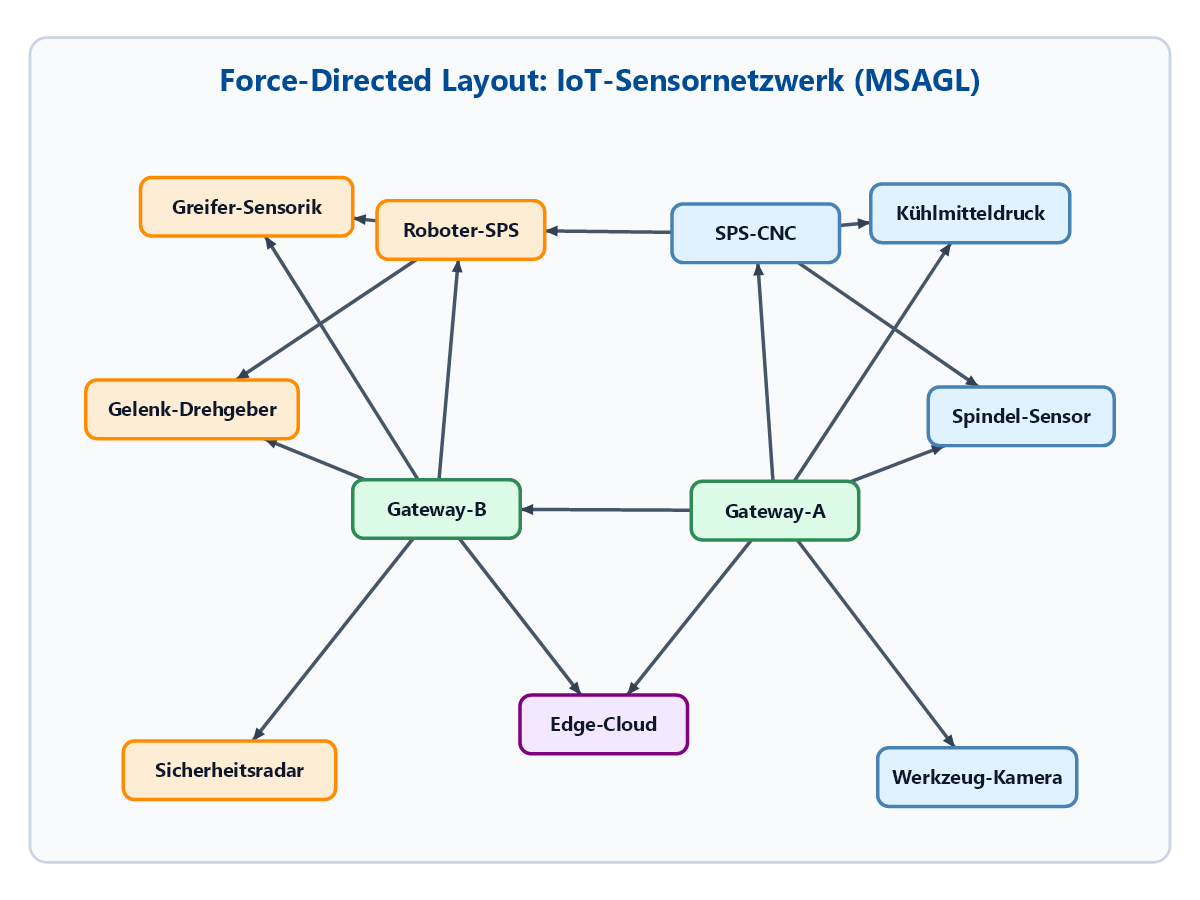
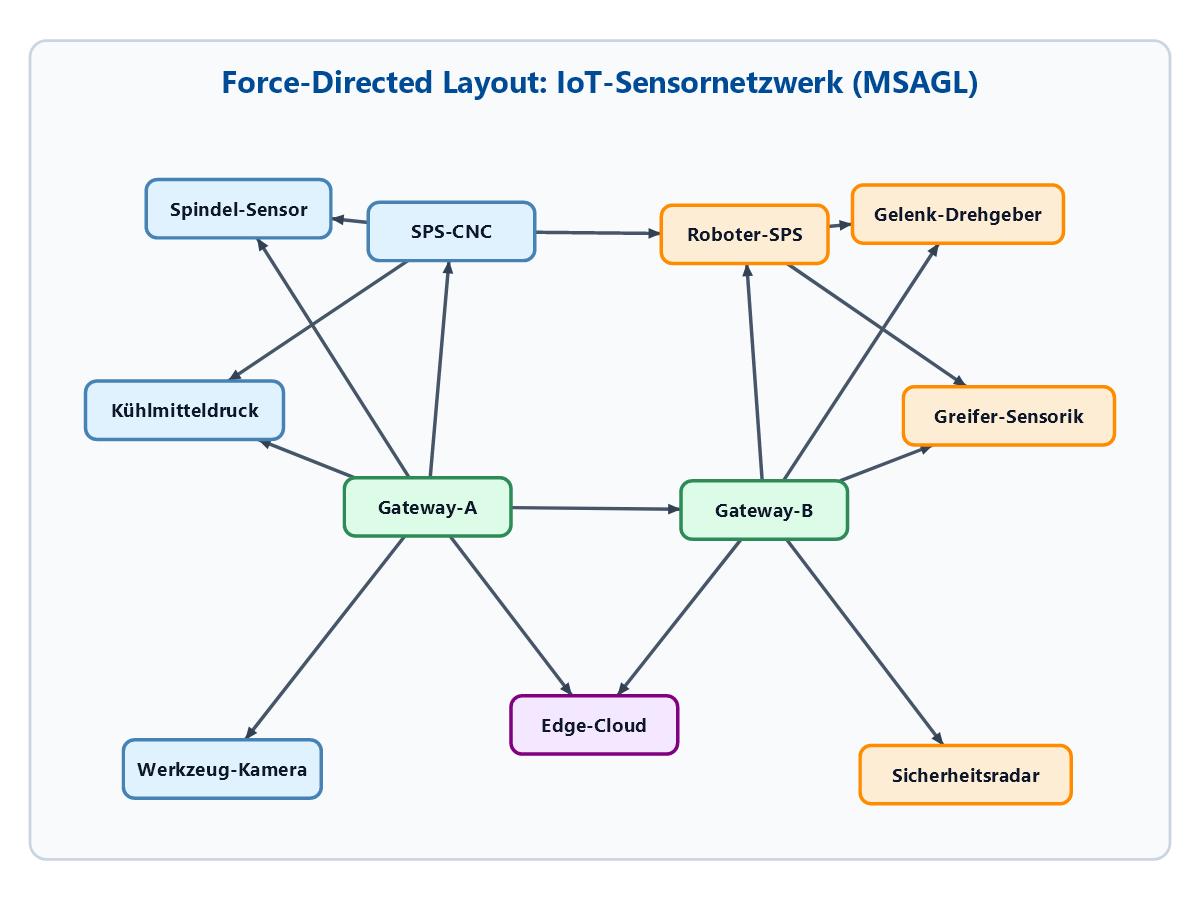
Visualisierung: Force-Directed Matrixkacheln maximiert und Kraeftesumme pro Iteration integriert

diff --git a/Werkzeuge/GrafikGenerator/ForceDirectedVisualizer.cs b/Werkzeuge/GrafikGenerator/ForceDirectedVisualizer.cs
@@ -24,6 +24,7 @@ namespace GrafikGenerator
             public int Iteration { get; set; }
             public double Temp { get; set; }
             public double MaxForce { get; set; }
+            public double ForceSum { get; set; }
             public string Title { get; set; } = "";
             public string Subtitle { get; set; } = "";
             public string Badge { get; set; } = "";
@@ -117,11 +118,13 @@ namespace GrafikGenerator
                 if (matrixMilestones.Contains(iter))
                 {
                     double maxF = 0;
+                    double forceSum = 0;
                     var snapNodes = new List<(double X, double Y, double Fx, double Fy)>();
                     foreach (var n in nodes)
                     {
                         double fLen = Math.Sqrt(n.Fx * n.Fx + n.Fy * n.Fy);
                         maxF = Math.Max(maxF, fLen);
+                        forceSum += fLen;
                         snapNodes.Add((n.X, n.Y, n.Fx, n.Fy));
                     }
 
@@ -130,6 +133,7 @@ namespace GrafikGenerator
                         Iteration = iter,
                         Temp = temp,
                         MaxForce = maxF,
+                        ForceSum = forceSum,
                         Nodes = snapNodes
                     };
 
@@ -633,9 +637,8 @@ namespace GrafikGenerator
             sb.AppendLine("<svg xmlns=\"http://www.w3.org/2000/svg\" viewBox=\"0 0 1110 470\" width=\"1110\" height=\"470\">");
             sb.AppendLine("  <defs>");
             sb.AppendLine("    <style>");
-            sb.AppendLine("      .hdr { font-family: 'Segoe UI', Arial, sans-serif; font-size: 15px; font-weight: bold; text-anchor: middle; }");
-            sb.AppendLine("      .sub { font-family: 'Segoe UI', Arial, sans-serif; font-size: 12.5px; text-anchor: middle; }");
-            sb.AppendLine("      .desc { font-family: 'Segoe UI', Arial, sans-serif; font-size: 12.5px; text-anchor: middle; }");
+            sb.AppendLine("      .hdr { font-family: 'Segoe UI', Arial, sans-serif; font-size: 16px; font-weight: bold; }");
+            sb.AppendLine("      .fsum { font-family: 'Segoe UI', Arial, sans-serif; font-size: 14px; font-weight: 600; }");
             sb.AppendLine("    </style>");
             sb.AppendLine("    <marker id=\"arr-net\" viewBox=\"0 0 10 10\" refX=\"7\" refY=\"5\" markerWidth=\"6.5\" markerHeight=\"6.5\" orient=\"auto-start-reverse\">");
             sb.AppendLine("      <path d=\"M 0 1.5 L 9 5 L 0 8.5 z\" fill=\"#16a34a\" />");
@@ -656,30 +659,30 @@ namespace GrafikGenerator
                 string cardStroke = isEq ? "#86efac" : "#cbd5e1";
                 double strokeW = isEq ? 1.8 : 1.5;
                 string titleFill = isEq ? "#15803d" : "#004B96";
-                string subFill = isEq ? "#166534" : "#475569";
-                string subWeight = isEq ? "bold" : "normal";
+                string fsumFill = isEq ? "#15803d" : "#475569";
+                string fsumVal = s.ForceSum < 0.05 ? "&lt; 0.01 N" : $"{s.ForceSum.ToString("F1", inv)} N";
 
                 // Card background
                 sb.AppendLine($"  <!-- Tile {idx}: Iteration {s.Iteration} -->");
                 sb.AppendLine($"  <rect x=\"{colX.ToString("F1", inv)}\" y=\"{rowY.ToString("F1", inv)}\" width=\"350\" height=\"220\" rx=\"8\" fill=\"{cardFill}\" stroke=\"{cardStroke}\" stroke-width=\"{strokeW.ToString("F1", inv)}\" />");
 
-                // Header
-                sb.AppendLine($"  <text x=\"{(colX + 175.0).ToString("F1", inv)}\" y=\"{(rowY + 24.0).ToString("F1", inv)}\" class=\"hdr\" fill=\"{titleFill}\">{s.Title}</text>");
-                sb.AppendLine($"  <text x=\"{(colX + 175.0).ToString("F1", inv)}\" y=\"{(rowY + 41.0).ToString("F1", inv)}\" class=\"sub\" fill=\"{subFill}\" font-weight=\"{subWeight}\">{s.Subtitle}</text>");
+                // Header - "Iteration N" (left) and Kräftesumme (right)
+                sb.AppendLine($"  <text x=\"{(colX + 16.0).ToString("F1", inv)}\" y=\"{(rowY + 26.0).ToString("F1", inv)}\" class=\"hdr\" text-anchor=\"start\" fill=\"{titleFill}\">Iteration {s.Iteration}</text>");
+                sb.AppendLine($"  <text x=\"{(colX + 334.0).ToString("F1", inv)}\" y=\"{(rowY + 26.0).ToString("F1", inv)}\" class=\"fsum\" text-anchor=\"end\" fill=\"{fsumFill}\">&#931; ||F_net|| = {fsumVal}</text>");
 
-                // Inner Canvas
+                // Inner Canvas - maximized from y = 38 to 210 (height 172px, width 330px)
                 string innerBorder = isEq ? "#bbf7d0" : "#cbd5e1";
-                sb.AppendLine($"  <rect x=\"{(colX + 15.0).ToString("F1", inv)}\" y=\"{(rowY + 50.0).ToString("F1", inv)}\" width=\"320\" height=\"132\" rx=\"6\" fill=\"#ffffff\" stroke=\"{innerBorder}\" stroke-width=\"1\" />");
+                sb.AppendLine($"  <rect x=\"{(colX + 10.0).ToString("F1", inv)}\" y=\"{(rowY + 38.0).ToString("F1", inv)}\" width=\"330\" height=\"172\" rx=\"6\" fill=\"#ffffff\" stroke=\"{innerBorder}\" stroke-width=\"1\" />");
 
-                // Mapping nodes to inner canvas center (colX + 175, rowY + 116)
+                // Mapping nodes to inner canvas center (colX + 175, rowY + 124)
                 double cx = colX + 175.0;
-                double cy = rowY + 116.0;
+                double cy = rowY + 124.0;
 
                 var mapped = new List<(double X, double Y, double Fx, double Fy)>();
                 foreach (var n in s.Nodes)
                 {
-                    double px = cx + (n.X - 125.0) * 1.5;
-                    double py = cy + (n.Y - 95.0) * 1.1;
+                    double px = cx + (n.X - 125.0) * 1.9;
+                    double py = cy + (n.Y - 95.0) * 1.4;
                     mapped.Add((px, py, n.Fx, n.Fy));
                 }
 
@@ -689,23 +692,23 @@ namespace GrafikGenerator
                 {
                     var p1 = mapped[u];
                     var p2 = mapped[v];
-                    sb.AppendLine($"  <line x1=\"{p1.X.ToString("F1", inv)}\" y1=\"{p1.Y.ToString("F1", inv)}\" x2=\"{p2.X.ToString("F1", inv)}\" y2=\"{p2.Y.ToString("F1", inv)}\" stroke=\"{edgeColor}\" stroke-width=\"2\" />");
+                    sb.AppendLine($"  <line x1=\"{p1.X.ToString("F1", inv)}\" y1=\"{p1.Y.ToString("F1", inv)}\" x2=\"{p2.X.ToString("F1", inv)}\" y2=\"{p2.Y.ToString("F1", inv)}\" stroke=\"{edgeColor}\" stroke-width=\"2.4\" />");
                 }
 
                 // Force arrows (for non-equilibrium, drawn before nodes so node circles mask line starts cleanly)
                 if (!isEq)
                 {
-                    double arrowScale = 9.0;
+                    double arrowScale = 10.0;
                     foreach (var p in mapped)
                     {
                         double fx = p.Fx * arrowScale;
                         double fy = p.Fy * arrowScale;
                         double len = Math.Sqrt(fx * fx + fy * fy);
-                        if (len > 34.0)
+                        if (len > 38.0)
                         {
-                            fx = (fx / len) * 34.0;
-                            fy = (fy / len) * 34.0;
-                            len = 34.0;
+                            fx = (fx / len) * 38.0;
+                            fy = (fy / len) * 38.0;
+                            len = 38.0;
                         }
                         if (len > 3.0)
                         {
@@ -718,15 +721,9 @@ namespace GrafikGenerator
                 string nodeFill = isEq ? "#16a34a" : "#2563eb";
                 foreach (var p in mapped)
                 {
-                    sb.AppendLine($"  <circle cx=\"{p.X.ToString("F1", inv)}\" cy=\"{p.Y.ToString("F1", inv)}\" r=\"5.5\" fill=\"{nodeFill}\" stroke=\"#ffffff\" stroke-width=\"1.8\" />");
+                    sb.AppendLine($"  <circle cx=\"{p.X.ToString("F1", inv)}\" cy=\"{p.Y.ToString("F1", inv)}\" r=\"6.5\" fill=\"{nodeFill}\" stroke=\"#ffffff\" stroke-width=\"2\" />");
                 }
 
-                // Badge / Footer Bar
-                string badgeBg = isEq ? "#dcfce7" : "#eff6ff";
-                string badgeBorder = isEq ? "#86efac" : "#bfdbfe";
-                string badgeText = isEq ? "#15803d" : "#1e40af";
-                sb.AppendLine($"  <rect x=\"{(colX + 15.0).ToString("F1", inv)}\" y=\"{(rowY + 189.0).ToString("F1", inv)}\" width=\"320\" height=\"23\" rx=\"4\" fill=\"{badgeBg}\" stroke=\"{badgeBorder}\" stroke-width=\"1\" />");
-                sb.AppendLine($"  <text x=\"{(colX + 175.0).ToString("F1", inv)}\" y=\"{(rowY + 205.0).ToString("F1", inv)}\" class=\"desc\" fill=\"{badgeText}\" font-weight=\"bold\">{s.Badge}</text>");
                 sb.AppendLine();
             }
 

diff --git a/Folien/04_Visualisierung_2D_Diagramme/Folien.md b/Folien/04_Visualisierung_2D_Diagramme/Folien.md
@@ -1509,7 +1509,7 @@ Für ungerichtete Komponenten-Netzwerke eignet sich das Kräfte-Verfahren:
 
 ### Force-Directed: Konvergenzverlauf (Partikelsimulation)
 
-Evolution der Knotenpositionen und Restkräfte $\vec{F}_{\text{net}}$ vom Startzustand bis zum Gleichgewicht bei abklingender Schrittweite:
+Evolution der Knotenpositionen und Kräftesumme $\sum \|\vec{F}_{\text{net}}\|$ vom Startzustand bis zum Gleichgewicht bei abklingender Schrittweite:
 
 ![](./Diagramme/Mini_ForceDirected_Matrix.svg)
 

diff --git a/Export/README.md b/Export/README.md
@@ -3,7 +3,7 @@
 **Lehrveranstaltung:** Systemsimulation / Digitaler Zwilling  
 **Studiengang:** B.Sc. Automatisierungstechnik, 5. Semester  
 **Institution:** Fachhochschule Oberösterreich – Campus Wels  
-**Zuletzt generiert:** 2026-11-03 17:40:45 UTC  
+**Zuletzt generiert:** 2026-11-03 17:44:29 UTC  
 
 Dieses Verzeichnis enthält alle druckreifen, vollständigen PDF-Unterlagen für den Upload auf Moodle.
 
